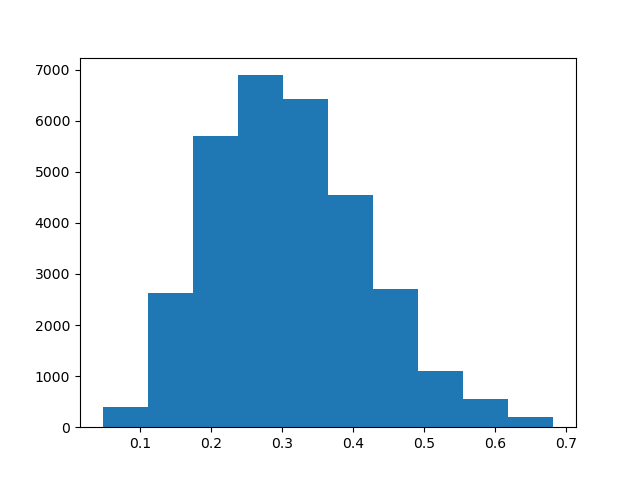
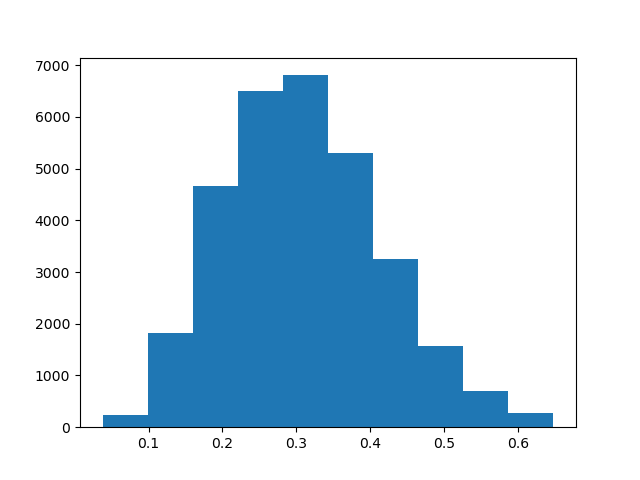
MACCS diversity with repeats

diff --git a/scripts/test_rankings.py b/scripts/test_rankings.py
@@ -6,6 +6,7 @@ import random
 from rdkit import Chem
 from rdkit.Chem import AllChem
 from rdkit.Chem import DataStructs, SaltRemover
+from structurally_diverse_library import MACCS_diverse
 
 
 def get_reduced_smiles_bits(smiles_bits, test_target):
@@ -50,9 +51,13 @@ def ignore_targets(smiles_bits, frequent_comps, target_screens, remove_less_than
             smol.append(t)
         elif t not in target_screens:
             smol.append(t)
+        elif len(smiles_bits[t]) < 10:
+            smol.append(t)
+            print(t, len(smiles_bits[t]))
 
     for t in smol:
         del smiles_bits[t]
+
 
     return smiles_bits
 
@@ -87,6 +92,7 @@ def multiple_random_runs(all_smiles, smiles_bits, test_target, total_information
     return random_fractions_target
 
 
+
 def plot_target_fraction(target, fraction):
 
     # plots information recovery for each target
@@ -118,18 +124,19 @@ def mean_across_targets(fraction):
     # calculates the mean information recovered across all targets for a particular library type
 
     mean_fractions = []
-    fraction_lengths = [len(i) for i in fractions]
+    fraction_lengths = [len(i) for i in fraction]
     for i in range(min(fraction_lengths)):
-        mean_fractions.append(sum([x[i] for x in fractions])/len(fractions))
+        mean_fractions.append(sum([x[i] for x in fraction])/len(fraction))
     
     return mean_fractions
 
 
 
-smiles_bits = json.load(open('data/datafiles/smiles_bits.json', 'r')) # load in dictionary of targets with IFP bits attributed to each compound
+smiles_bits = json.load(open('data/datafiles/smiles_bits_clean.json', 'r')) # load in dictionary of targets with IFP bits attributed to each compound
 frequent_comps = json.load(open('data/datafiles/frequently_tested_compounds.json', 'r')) # load in list of compounds that have been tested on more than 15 of our targets
 # target_tests = json.load(open('data/datafiles/target_test_numbers.json', 'r')) # load in dictionary showing how many compounds were tested on which targets
-lib_size = 200 # library size we are using to compare ranked and random libraries
+lib_size = 175 # library size we are using to compare ranked and random libraries
+runs = 1000
 target_screens = json.load(open('data/datafiles/target_full_screens.json', 'r')) # load in dictionary showing which compounds were tested on which targets
 
 DSiP_smiles = get_DSiP_smiles()
@@ -140,22 +147,18 @@ plt.subplot(121)
 
 fractions = []
 random_fractions = []
+diverse_fractions = []
+
 comps_lists = []
 improvement = []
+improvement_diverse = []
 
 for test_target in smiles_bits:
-    # print(test_target)
-    # print(target_tests[test_target])
-    # print('frequently tested compounds', len(set([i for i in target_screens[test_target] if i in frequent_comps])))
-    # print('total DSiP compounds tested', len(set(target_screens[test_target])))
-
-    # if len(set([i for i in target_screens[test_target] if i in frequent_comps])) > 500:
-
 
     # get all results except target being tested
     smiles_bits_reduced = get_reduced_smiles_bits(smiles_bits, test_target)
     all_smiles = [i for i in get_all_smiles(smiles_bits_reduced) if Chem.MolToSmiles(Chem.MolFromSmiles(i)) in frequent_comps]
-    print('previously bound compounds', len(all_smiles))
+    # print('previously bound compounds', len(all_smiles))
 
     # rank compounds based on past results
     comps, x = rank(smiles_bits_reduced, all_smiles, lib_size)
@@ -168,22 +171,34 @@ for test_target in smiles_bits:
     target_fraction = get_fraction(comps, smiles_bits, test_target, total_information)
     fractions.append(target_fraction)
 
-    # add in dummy compounds for those we have never seen bind and shuffle new (larger) library
-    add_for_DSiP = len(frequent_comps) - len(all_smiles)
-
-    all_smiles += ['C'] * add_for_DSiP
-    random.shuffle(all_smiles)
+    # get compounds that were actually tested on this target
+    all_smiles = [i for i in target_screens[test_target] if i in frequent_comps]
 
     # get list of fraction of information recovered at each library size (random library)
-    random_fractions_target = multiple_random_runs(all_smiles, smiles_bits, test_target, total_information, lib_size=lib_size, num_runs=1000)
+    random_fractions_target = multiple_random_runs(all_smiles, smiles_bits, test_target, total_information, lib_size=lib_size, num_runs=runs)
     random_fractions.append(random_fractions_target)
 
     # print and save improvement in information recovered from random and ranked sub-libaries
-    print(test_target, len(comps), len(smiles_bits[test_target]), target_fraction[-1], random_fractions_target[-1])
+    # print(test_target, len([i for i in smiles_bits[test_target] if Chem.MolToSmiles(Chem.MolFromSmiles(i)) in frequent_comps]), target_fraction[-1], random_fractions_target[-1])
     improvement.append(target_improvement(target_fraction, random_fractions_target))
 
     # plot information recovery as library size increases 
     plot_target_fraction(test_target, target_fraction)
+
+    ## !!! lots of runs for structurally diverse library!!!!
+    many_diverse_fractions = []
+    for i in range(runs):
+        random.shuffle(all_smiles)
+        div = MACCS_diverse(all_smiles, lib_size)
+        many_diverse_fractions.append(get_fraction(div, smiles_bits, test_target, total_information))
+    diverse_fractions = []
+    for i in range(lib_size+1):
+        fracs = [f[i] for f in many_diverse_fractions]
+        diverse_fractions.append(sum(fracs)/runs)
+
+
+    print(test_target, len([i for i in smiles_bits[test_target] if Chem.MolToSmiles(Chem.MolFromSmiles(i)) in frequent_comps]), target_fraction[-1], random_fractions_target[-1], diverse_fractions[-1])
+    improvement_diverse.append(target_improvement(target_fraction, diverse_fractions))
 
 
 mean_fractions = mean_across_targets(fractions)
@@ -210,11 +225,17 @@ plt.xlabel(f'number of times fragments in top {lib_size}')
 plt.tight_layout()
 plt.savefig('figures/compound_counts.png')
 
-
+import numpy as np
 plt.close()
-plt.figure(figsize=(8, 7))
-plt.barh([t for t in smiles_bits], improvement)
-plt.xlabel(f'factor of information improvement in DSiP-diverse {lib_size} vs average of 1,000 random runs')
+plt.figure(figsize=(10, 8))
+fig, ax = plt.subplots()
+pos = np.arange(len(smiles_bits))
+ax.barh(pos+0.15, improvement, height=0.25, label='vs 1000 random runs')
+ax.barh(pos-0.15, improvement_diverse, height=0.25, label='vs 1000 MACCS-diverse libraries')
+ax.set_yticks(pos)
+ax.set_yticklabels([t for t in smiles_bits])
+plt.xlabel(f'factor of information improvement in DSiP-diverse {lib_size}')
 plt.ylabel('target')
+plt.legend()
 plt.tight_layout()
 plt.savefig('figures/improvement_by_target.png')

diff --git a/scripts/structurally_diverse_library.py b/scripts/structurally_diverse_library.py
@@ -17,46 +17,11 @@ def dmat_sim(fps,ntopick):
     return ids
 
 
+def MACCS_diverse(all_smiles, lib_size):
+    ms = [Chem.MolFromSmiles(i) for i in all_smiles]
+    fps = [MACCSkeys.GenMACCSKeys(m) for m in ms]
+    dmat_ids=dmat_sim(fps,lib_size)
+    MaxMinSmiles = [all_smiles[i] for i in list(dmat_ids)]
+    # MaxMinMols = [ms[i] for i in list(dmat_ids)]
 
-smiles_bits = json.load(open('data/datafiles/smiles_bits.json', 'r'))
-all_smiles = get_all_smiles(smiles_bits)
-DSiP_smiles = json.load(open('data/datafiles/frequently_tested_compounds.json', 'r'))
-ms = [Chem.MolFromSmiles(i) for i in DSiP_smiles]
-# fps = [rdMolDescriptors.GetMorganFingerprintAsBitVect(m,2) for m in ms]
-fps = [MACCSkeys.GenMACCSKeys(m) for m in ms]
-
-dmat_ids=dmat_sim(fps,250)
-MaxMinSmiles = [DSiP_smiles[i] for i in list(dmat_ids)]
-MaxMinMols = [ms[i] for i in list(dmat_ids)]
-
-MaxMinMACCS = [MACCSkeys.GenMACCSKeys(x) for x in MaxMinMols]
-MACCS_sim = []
-
-for i in range(len(MaxMinMACCS)):
-    for j in range(i+1, len(MaxMinMACCS)):
-        MACCS_sim.append(DataStructs.FingerprintSimilarity(MaxMinMACCS[i],MaxMinMACCS[j]))
-
-import matplotlib.pyplot as plt
-
-plt.hist(MACCS_sim)
-plt.savefig('figures/MACCS_sim.png')
-
-MaxMinLib = []
-print(len(MaxMinSmiles))
-
-all_fps = [AllChem.GetMorganFingerprint(Chem.MolFromSmiles(sm),2) for sm in all_smiles]
-MaxMin_fps = [AllChem.GetMorganFingerprint(Chem.MolFromSmiles(sm),2) for sm in MaxMinSmiles]
-for fp1 in range(len(all_fps)):
-    for fp2 in range(len(MaxMin_fps)):
-        mol_sim = DataStructs.DiceSimilarity(all_fps[fp1], MaxMin_fps[fp2])
-        if mol_sim == 1.0:
-            MaxMinLib.append(all_smiles[fp1])
-            break
-
-to_add = 250-len(MaxMinLib)
-MaxMinLib += ['C'] * to_add
-
-print(len(MaxMinLib))
-
-json.dump(MaxMinLib, open('data/datafiles/MaxMinLib.json', 'w'))
-json.dump(all_smiles, open('data/datafiles/all_smiles.json', 'w'))
+    return MaxMinSmiles

diff --git a/scripts/generate_IFPs.py b/scripts/generate_IFPs.py
@@ -62,6 +62,7 @@ def get_IFP_vectors(target):
 
     for ligand in os.listdir(f'{DATA_DIR}/{target}'):
 
+
         try:
             if len(xtal_smiles[ligand]) > 1:
                 xtal_smiles[ligand] = [min(xtal_smiles[ligand])]
@@ -69,10 +70,12 @@ def get_IFP_vectors(target):
 
                 separate_files(f'{DATA_DIR}/{target}/{ligand}')
 
+                print(ligand)
+
                 IFP = get_IFP()
             
                 if list(IFP).count(0) < len(IFP):
-                    ismiles.append(xtal_smiles[ligand][0])
+                    ismiles.append(Chem.MolToSmiles(Chem.MolFromSmiles(xtal_smiles[ligand][0])))
                     ifrags.append(ligand)
                     ivecs.append(IFP)
 
@@ -139,8 +142,8 @@ print('DSiP total compounds:', len(set(DSiP_smiles)))
 xtal_smiles = json.load(open('data/datafiles/xtal_smiles.json', 'r'))
 
 
-for target in os.listdir(DATA_DIR):
-# for target in ['70X']:
+# for target in os.listdir(DATA_DIR):
+for target in ['PKL1']:
 
     try:
         print(target)

diff --git a/scripts/fix_smiles.py b/scripts/fix_smiles.py
@@ -1,0 +1,14 @@
+import json
+from rdkit import Chem
+
+smiles_bits = json.load(open('data/datafiles/smiles_bits.json', 'r')) # load in dictionary of targets with IFP bits attributed to each compound
+
+smiles_bits_new = {}
+
+for target in smiles_bits:
+    smiles_bits_new[target] = {}
+    for smiles in smiles_bits[target]:
+        smiles_bits_new[target][Chem.MolToSmiles(Chem.MolFromSmiles(smiles))] = smiles_bits[target][smiles]
+
+
+json.dump(smiles_bits_new, open('smiles_bits_clean.json', 'w'))
